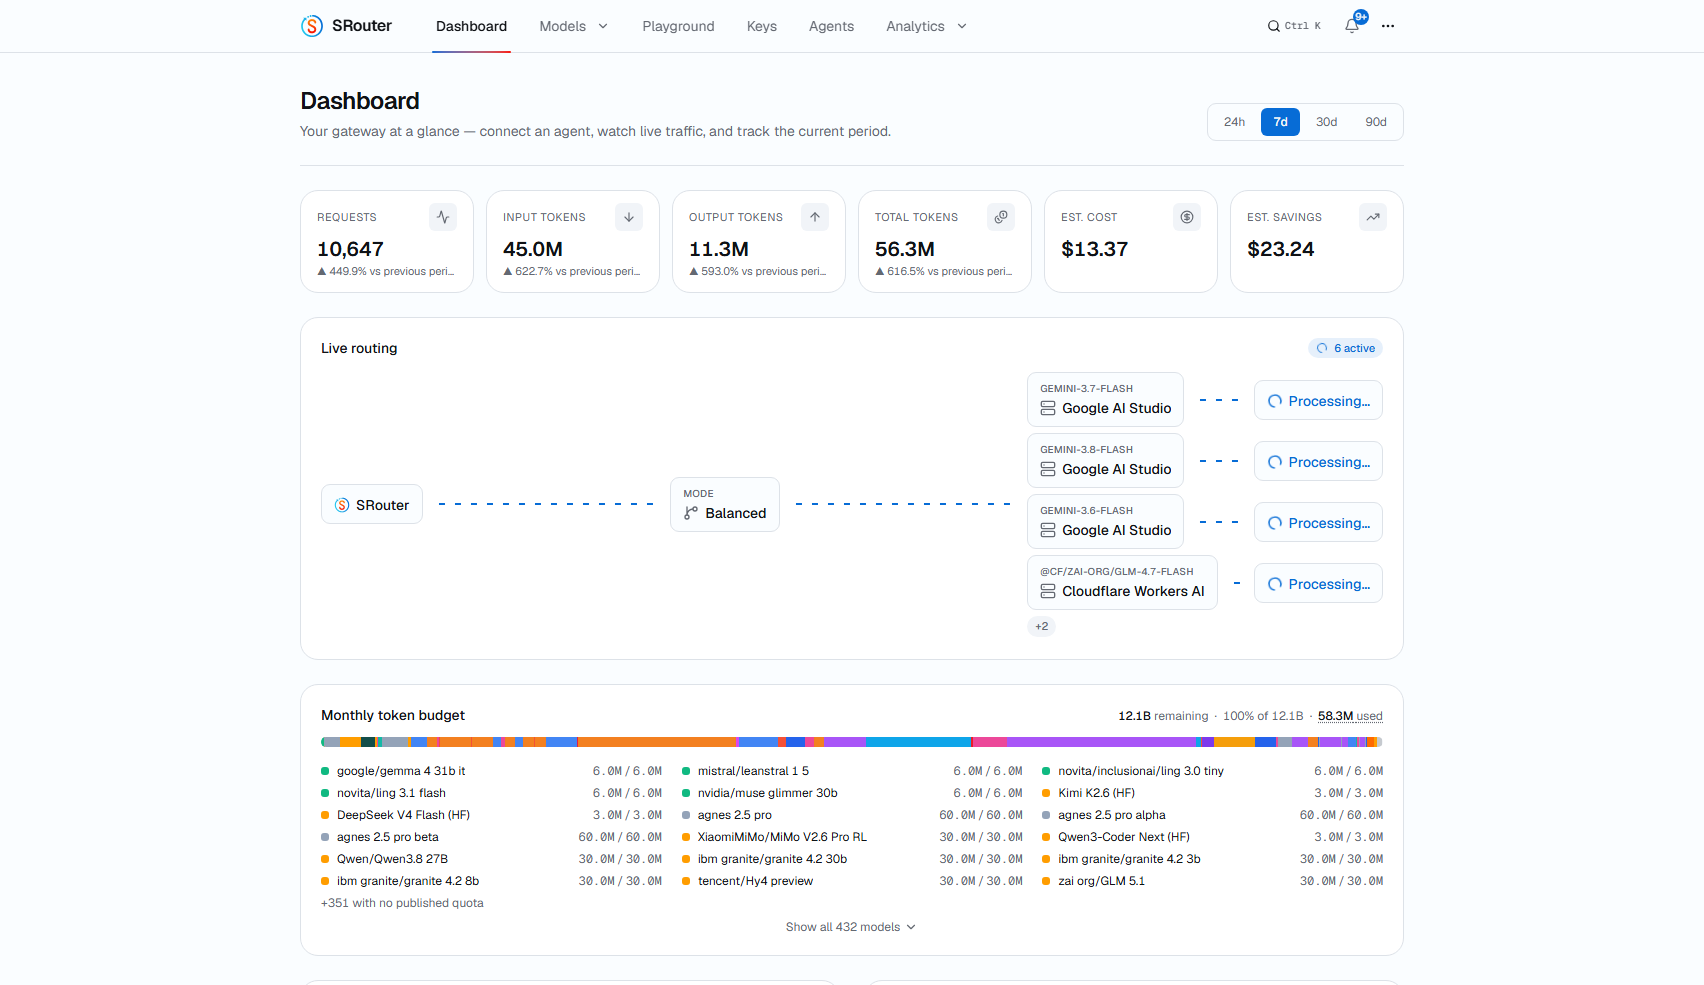
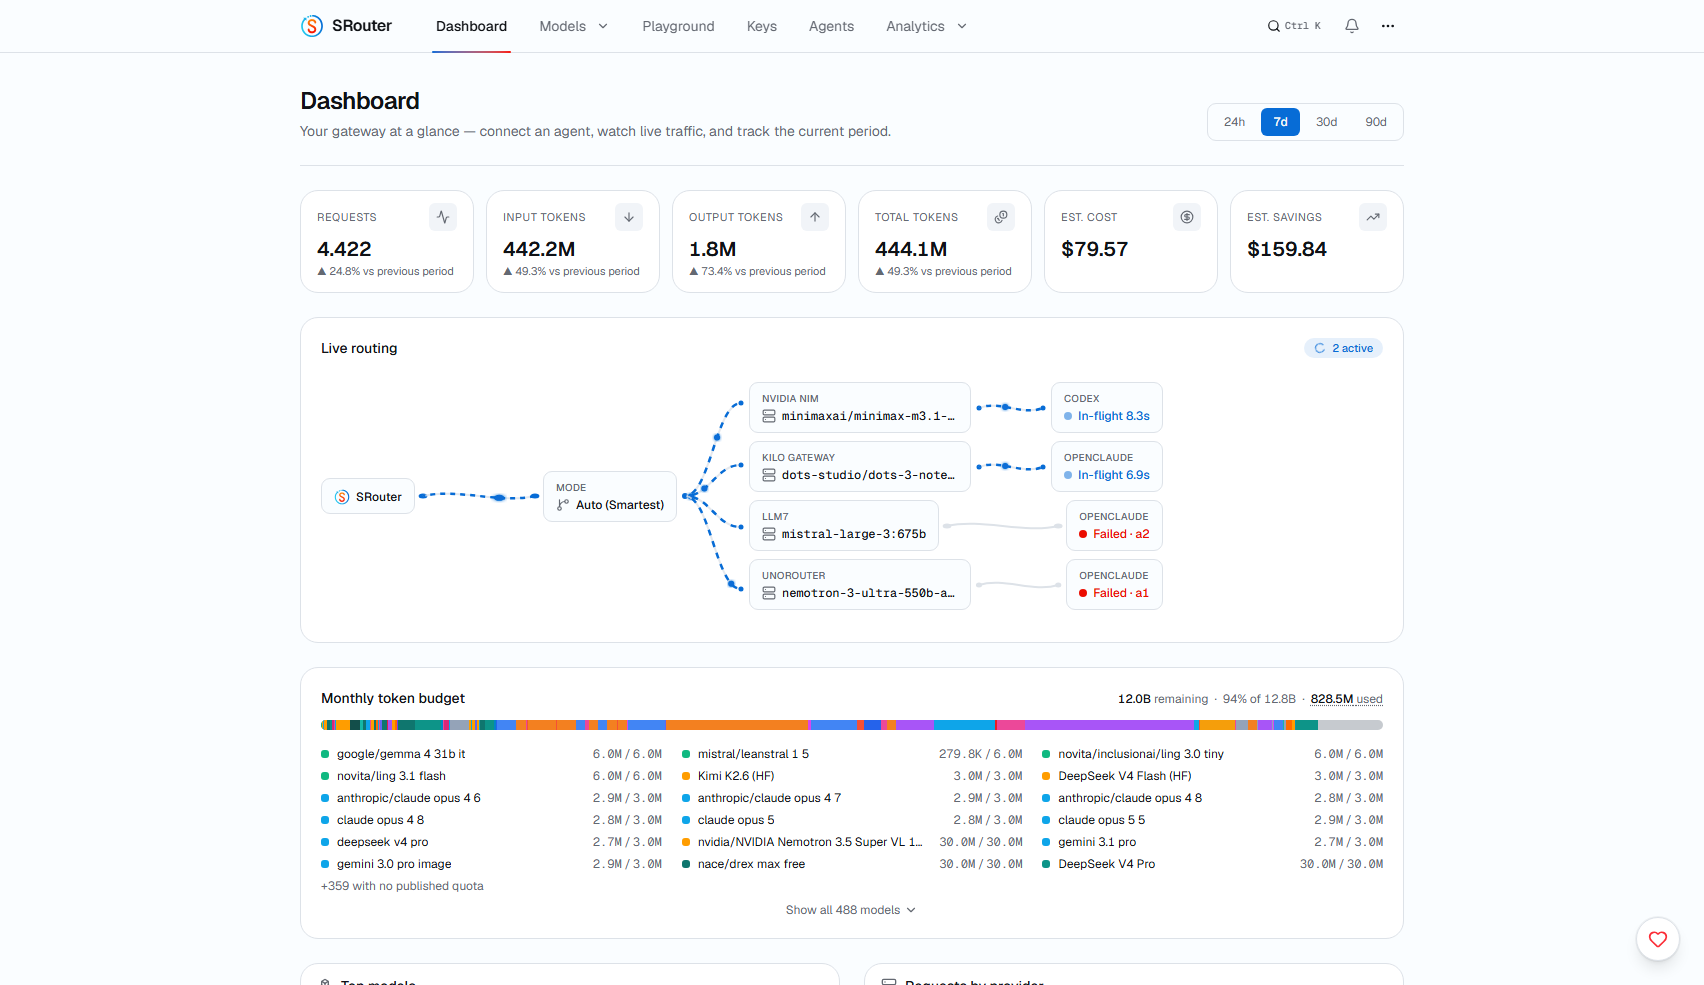
fix(dashboard): responsive svg branching curves with retained route history and updated hero

diff --git a/client/src/components/routing-strip.tsx b/client/src/components/routing-strip.tsx
@@ -14,11 +14,14 @@ interface LiveRoute {
   requestedModel: string | null
   clientAgent?: string | null
   ageMs: number
+  outcome?: 'ok' | 'fail' | 'canceled'
+  latencyMs?: number
 }
 
 interface LiveRoutes {
   active: LiveRoute[]
   last: (LiveRoute & { outcome: 'ok' | 'fail' | 'canceled'; latencyMs: number }) | null
+  recent?: (LiveRoute & { outcome: 'ok' | 'fail' | 'canceled'; latencyMs: number })[]
 }
 
 const STRATEGY_TKEY: Record<RoutingStrategy, string> = {
@@ -151,19 +154,14 @@ function StripLine({
   processing: boolean
   className?: string
 }) {
-  const width = 56
-  const height = 20
-  const yCenter = 10
-  const wavePath = `M 0 ${yCenter} C 18 2, 38 18, ${width} ${yCenter}`
-
   return (
     <div
       aria-hidden="true"
-      style={{ width: `${width}px` }}
-      className={`relative flex items-center h-7 shrink-0 ${className}`}
+      className={`relative flex items-center h-7 min-w-8 flex-1 max-w-28 shrink-0 ${className}`}
     >
       <svg
-        viewBox={`0 0 ${width} ${height}`}
+        viewBox="0 0 64 20"
+        preserveAspectRatio="none"
         className="w-full h-5 overflow-visible"
       >
         <defs>
@@ -174,32 +172,34 @@ function StripLine({
         </defs>
 
         {/* Anchor point start */}
-        <circle cx={0} cy={yCenter} r={2.5} className={processing ? 'fill-primary' : 'fill-border'} />
+        <circle cx={0} cy={10} r={2.5} className={processing ? 'fill-primary' : 'fill-border'} />
 
         {/* Background track with gentle wave curve */}
         <path
-          d={wavePath}
+          d="M 0 10 C 20 2, 44 18, 64 10"
           fill="none"
           stroke="currentColor"
           strokeWidth="2"
           className={processing ? 'text-border/80' : 'text-border'}
+          vectorEffect="non-scaling-stroke"
         />
 
         {processing && (
           <>
             {/* Animated flowing wave dashed line */}
             <path
-              d={wavePath}
+              d="M 0 10 C 20 2, 44 18, 64 10"
               fill="none"
               stroke="currentColor"
               strokeWidth="2.5"
               strokeDasharray="5 5"
               className="text-primary sr-svg-flow-path"
+              vectorEffect="non-scaling-stroke"
             />
             {/* Glowing particle packet traveling along the wave */}
             <circle r="3" className="fill-primary" filter="url(#sr-glow)">
               <animateMotion
-                path={wavePath}
+                path="M 0 10 C 20 2, 44 18, 64 10"
                 dur="1.3s"
                 repeatCount="indefinite"
               />
@@ -208,7 +208,7 @@ function StripLine({
         )}
 
         {/* Anchor point end */}
-        <circle cx={width} cy={yCenter} r={2.5} className={processing ? 'fill-primary' : 'fill-border'} />
+        <circle cx={64} cy={10} r={2.5} className={processing ? 'fill-primary' : 'fill-border'} />
       </svg>
     </div>
   )
@@ -445,11 +445,41 @@ export function RoutingStrip({ strategy }: { strategy: RoutingStrategy }) {
   })
 
   const active = data?.active ?? []
+  const recent = data?.recent ?? []
   const last = data?.last ?? null
   const processing = active.length > 0
-  const current = active[active.length - 1] ?? last
-  const lanes = active.slice(0, MAX_LANES)
-  const hiddenLanes = active.length - lanes.length
+
+  // Combine active lanes with recent completed lanes so completed requests
+  // don't vanish immediately, but stay visible for up to 20 seconds!
+  const displayedLanes = useMemo<LiveRoute[]>(() => {
+    if (active.length > 0) {
+      const activeIds = new Set(active.map(a => `${a.platform}:${a.model}:${a.attempt}`))
+      const combined: LiveRoute[] = [...active]
+      for (const r of recent) {
+        if (combined.length >= MAX_LANES) break
+        if (!activeIds.has(`${r.platform}:${r.model}:${r.attempt}`)) {
+          combined.push(r)
+        }
+      }
+      return combined.slice(0, MAX_LANES)
+    }
+
+    if (recent.length > 0) {
+      return recent.slice(0, MAX_LANES)
+    }
+
+    if (last) {
+      return [last]
+    }
+
+    return []
+  }, [active, recent, last])
+
+  const lanes = displayedLanes
+  const hiddenLanes = (active.length > 0 ? active.length : recent.length) - lanes.length
+  const current = lanes[lanes.length - 1] ?? last
+  const isBranching = lanes.length > 1
+  const isLaneActive = (lane: LiveRoute) => !lane.outcome && processing
 
   const modeGroups = useMemo<ModeGroup[]>(() => {
     const map = new Map<string, ModeGroup>()
@@ -465,21 +495,25 @@ export function RoutingStrip({ strategy }: { strategy: RoutingStrategy }) {
   }, [lanes, strategy, t])
 
   const currentModeInfo = resolveModeInfo(current?.requestedModel, strategy, t)
-  const isBranching = active.length > 1
 
   return (
     <section className="rounded-3xl border bg-card p-4 sm:p-5" aria-label={t('routingStrip.title')}>
       <div className="mb-3 flex items-center justify-between gap-3">
         <h2 className="text-sm font-medium">{t('routingStrip.title')}</h2>
-        {processing && (
+        {processing ? (
           <span className="inline-flex items-center gap-1.5 rounded-full bg-primary/10 px-2.5 py-0.5 text-[11px] font-medium text-primary">
             <Loader2 className="size-3 animate-spin" />
             {t('routingStrip.activeCount', { n: active.length })}
           </span>
-        )}
+        ) : recent.length > 0 ? (
+          <span className="inline-flex items-center gap-1.5 rounded-full bg-emerald-500/10 px-2.5 py-0.5 text-[11px] font-medium text-emerald-600 dark:text-emerald-400">
+            <span className="size-1.5 rounded-full bg-emerald-500" />
+            {recent.length} recent
+          </span>
+        ) : null}
       </div>
 
-      <div className="flex items-center gap-2 overflow-x-auto">
+      <div className="flex items-center gap-2 overflow-x-auto w-full py-1">
         <StripNode label="SRouter" icon={<LogoMark className="size-4 shrink-0" />} />
         <StripLine processing={processing} />
 
@@ -492,16 +526,19 @@ export function RoutingStrip({ strategy }: { strategy: RoutingStrategy }) {
               tone={modeGroups[0].modeInfo.tone}
               icon={<GitBranch className="size-3.5 shrink-0 text-muted-foreground" />}
             />
-            <BranchTreeConnector count={modeGroups[0].lanes.length} processing={true} />
+            <BranchTreeConnector count={modeGroups[0].lanes.length} processing={processing} />
             <div className="flex min-w-0 flex-col gap-2 py-0.5">
               {modeGroups[0].lanes.map((lane, i) => (
                 <div key={i} className="flex min-w-0 items-center gap-2">
                   <ProviderModelNode platform={lane.platform} model={lane.model} />
-                  <StripLine processing={true} />
+                  <StripLine processing={isLaneActive(lane)} />
                   <AgentStatusNode
                     agent={lane.clientAgent}
+                    status={isLaneActive(lane) ? null : (lane.outcome ?? 'ok')}
+                    latencyMs={lane.latencyMs}
+                    attempt={lane.attempt}
                     ageMs={lane.ageMs}
-                    isProcessing={true}
+                    isProcessing={isLaneActive(lane)}
                   />
                 </div>
               ))}
@@ -515,7 +552,7 @@ export function RoutingStrip({ strategy }: { strategy: RoutingStrategy }) {
         ) : isBranching && modeGroups.length > 1 ? (
           /* Multiple different modes active */
           <div className="flex min-w-0 items-center gap-2">
-            <BranchTreeConnector count={modeGroups.length} processing={true} />
+            <BranchTreeConnector count={modeGroups.length} processing={processing} />
             <div className="flex min-w-0 flex-col gap-2.5 py-0.5">
               {modeGroups.map((group, gi) => (
                 <div key={gi} className="flex min-w-0 items-center gap-2">
@@ -527,16 +564,19 @@ export function RoutingStrip({ strategy }: { strategy: RoutingStrategy }) {
                   />
                   {group.lanes.length > 1 ? (
                     <>
-                      <BranchTreeConnector count={group.lanes.length} processing={true} />
+                      <BranchTreeConnector count={group.lanes.length} processing={processing} />
                       <div className="flex min-w-0 flex-col gap-2 py-0.5">
                         {group.lanes.map((lane, li) => (
                           <div key={li} className="flex min-w-0 items-center gap-2">
                             <ProviderModelNode platform={lane.platform} model={lane.model} />
-                            <StripLine processing={true} />
+                            <StripLine processing={isLaneActive(lane)} />
                             <AgentStatusNode
                               agent={lane.clientAgent}
+                              status={isLaneActive(lane) ? null : (lane.outcome ?? 'ok')}
+                              latencyMs={lane.latencyMs}
+                              attempt={lane.attempt}
                               ageMs={lane.ageMs}
-                              isProcessing={true}
+                              isProcessing={isLaneActive(lane)}
                             />
                           </div>
                         ))}
@@ -544,13 +584,16 @@ export function RoutingStrip({ strategy }: { strategy: RoutingStrategy }) {
                     </>
                   ) : (
                     <>
-                      <StripLine processing={true} />
-                      <ProviderModelNode platform={group.lanes[0].platform} model={group.lanes[0].model} />
-                      <StripLine processing={true} />
+                      <StripLine processing={isLaneActive(group.lanes[0]!)} />
+                      <ProviderModelNode platform={group.lanes[0]!.platform} model={group.lanes[0]!.model} />
+                      <StripLine processing={isLaneActive(group.lanes[0]!)} />
                       <AgentStatusNode
-                        agent={group.lanes[0].clientAgent}
-                        ageMs={group.lanes[0].ageMs}
-                        isProcessing={true}
+                        agent={group.lanes[0]!.clientAgent}
+                        status={isLaneActive(group.lanes[0]!) ? null : (group.lanes[0]!.outcome ?? 'ok')}
+                        latencyMs={group.lanes[0]!.latencyMs}
+                        attempt={group.lanes[0]!.attempt}
+                        ageMs={group.lanes[0]!.ageMs}
+                        isProcessing={isLaneActive(group.lanes[0]!)}
                       />
                     </>
                   )}
@@ -580,8 +623,8 @@ export function RoutingStrip({ strategy }: { strategy: RoutingStrategy }) {
             <StripLine processing={processing} />
             <AgentStatusNode
               agent={current?.clientAgent}
-              status={processing ? null : last?.outcome}
-              latencyMs={last?.latencyMs}
+              status={processing ? null : (current?.outcome ?? last?.outcome)}
+              latencyMs={current?.latencyMs ?? last?.latencyMs}
               attempt={current?.attempt}
               ageMs={current?.ageMs}
               isProcessing={processing}

diff --git a/server/src/lib/route-live.ts b/server/src/lib/route-live.ts
@@ -41,17 +41,26 @@ export interface LiveLastRoute extends LiveActiveRoute {
 export interface LiveRoutesResponse {
   active: LiveActiveRoute[];
   last: LiveLastRoute | null;
+  recent?: LiveLastRoute[];
 }
 
 /** An entry older than this never reported an outcome: drop it from view. */
 const MAX_AGE_MS = 10 * 60_000;
 /** In-flight entries tracked before the oldest is evicted. */
 const MAX_ACTIVE = 32;
+/** Retain recent completions for up to 20s so operators can see successful routes. */
+const MAX_RECENT_AGE_MS = 20_000;
+const MAX_RECENT = 8;
+
+type CompletedEntry = Entry & {
+  outcome: 'ok' | 'fail' | 'canceled';
+  finishedAt: number;
+  latencyMs: number;
+};
 
 const active = new Map<string, Entry>();
-let last:
-  | (Entry & { outcome: 'ok' | 'fail' | 'canceled'; finishedAt: number; latencyMs: number })
-  | null = null;
+let last: CompletedEntry | null = null;
+const recentCompleted: CompletedEntry[] = [];
 
 export function recordRouteTrace(opts: {
   event: RouteTraceEvent;
@@ -101,6 +110,8 @@ export function recordRouteTrace(opts: {
     finishedAt: now,
     latencyMs: opts.latencyMs ?? now - startedAt,
   };
+  recentCompleted.unshift(last);
+  if (recentCompleted.length > MAX_RECENT) recentCompleted.length = MAX_RECENT;
 }
 
 function trim(now: number): void {
@@ -111,6 +122,11 @@ function trim(now: number): void {
     const oldest = active.keys().next().value;
     if (oldest === undefined) break;
     active.delete(oldest);
+  }
+  for (let i = recentCompleted.length - 1; i >= 0; i--) {
+    if (now - recentCompleted[i]!.finishedAt > MAX_RECENT_AGE_MS) {
+      recentCompleted.splice(i, 1);
+    }
   }
 }
 
@@ -138,6 +154,16 @@ export function getLiveRoutes(): LiveRoutesResponse {
           latencyMs: last.latencyMs,
         }
       : null,
+    recent: recentCompleted.map(item => ({
+      platform: item.platform,
+      model: item.model,
+      attempt: item.attempt,
+      requestedModel: item.requestedModel ?? null,
+      clientAgent: item.clientAgent ?? null,
+      ageMs: now - item.finishedAt,
+      outcome: item.outcome,
+      latencyMs: item.latencyMs,
+    })),
   };
 }
 
@@ -145,4 +171,5 @@ export function getLiveRoutes(): LiveRoutesResponse {
 export function resetRouteLiveForTest(): void {
   active.clear();
   last = null;
+  recentCompleted.length = 0;
 }

diff --git a/server/src/__tests__/lib/route-live.test.ts b/server/src/__tests__/lib/route-live.test.ts
@@ -134,13 +134,21 @@ describe('GET /api/analytics/live', () => {
   it('returns the tracked state behind the dashboard gate', async () => {
     const empty = await request(app, '/api/analytics/live', dashToken);
     expect(empty.status).toBe(200);
-    expect(empty.body).toEqual({ active: [], last: null });
+    expect(empty.body).toEqual({ active: [], last: null, recent: [] });
 
     recordRouteTrace(START);
     const busy = await request(app, '/api/analytics/live', dashToken);
     expect(busy.status).toBe(200);
     expect(busy.body.active).toHaveLength(1);
     expect(busy.body.active[0].platform).toBe('groq');
+
+    recordRouteTrace({ ...START, event: 'ok', latencyMs: 320 });
+    const completed = await request(app, '/api/analytics/live', dashToken);
+    expect(completed.status).toBe(200);
+    expect(completed.body.active).toHaveLength(0);
+    expect(completed.body.last).toMatchObject({ outcome: 'ok', latencyMs: 320 });
+    expect(completed.body.recent).toHaveLength(1);
+    expect(completed.body.recent[0]).toMatchObject({ outcome: 'ok', latencyMs: 320 });
   });
 
   it('rejects a request without a session', async () => {
